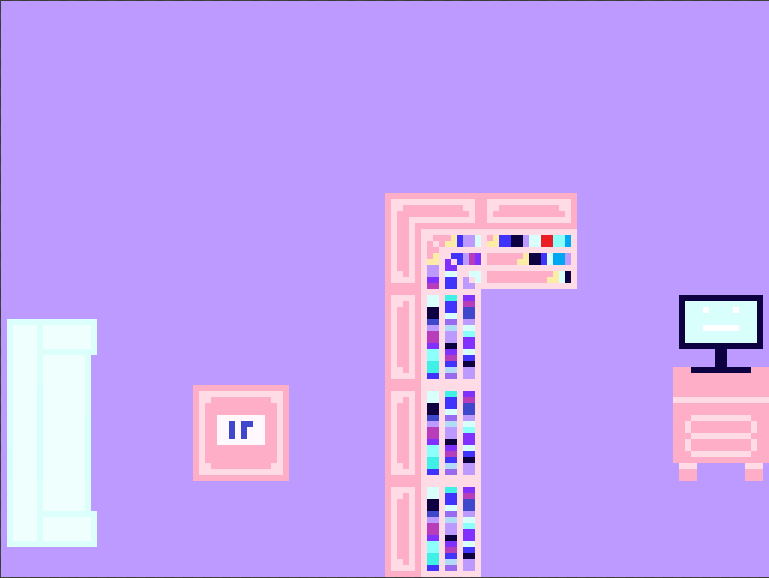
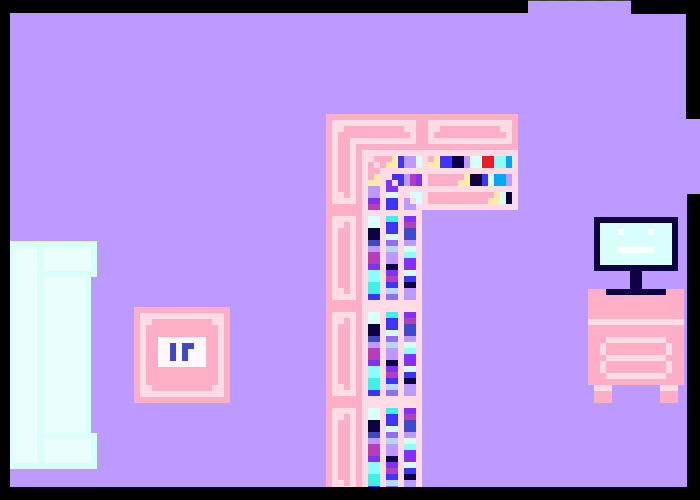
cleaned up some superficial things, changed image sizes to the same size

Changed region(s): [[0.0, 0.0, 1.0, 1.0], [0.18, 0.6, 0.39, 0.84], [0.9, 0.0, 1.0, 0.24]]

diff --git a/eoh_game.html b/eoh_game.html
@@ -1,7 +1,18 @@
-<!doctype html> 
-<meta charset = "utf-8"> 
+<!doctype html>
+<meta charset = "utf-8">
 <title>Hello, world!</title>
-<body style="background-color: black;">
+<head>
+  <style>
+    body {
+      background-color: black;
+      text-align: center;
+      color: white;
+      font-family: courier;
+    }
+  </style>
+</head>
+<body>
+  <h2>Test Header</h2>
 <script src="ga.js"></script>
 <script src="plugins.js"></script>
 <script>
@@ -64,21 +75,23 @@ function logKey(e) {
   }
 }
 
- 
+
 function check_password_correctness() {
   if (password_string === " DELILAH") {
     closeWindow = true;
     console.log("Password correct!");
     computerUnlocked = true;
-  } 
+  }
 }
 
 //Create a new GA instance, and start it.
-var g = ga(790, 720, setup,
+var g = ga(700, 500, setup,
   [
     "images/big-out-living.png",
     "images/kitchen.png",
-    "images/uh.png",
+    "images/step1.png",
+    "images/step2.png",
+    "images/standing.png",
     "images/coffee.png",
     "images/whiteboard2.png",
     "images/bedroom.png",
@@ -92,7 +105,7 @@ var cat, message;
 //A `setup` function that will run only once.
 //Use it for initialization tasks
 function setup() {
-  console.log("setup");
+  console.log("hiiiii");
   forest = g.sprite("images/big-out-living.png");
   kitchen = g.sprite("images/kitchen.png");
   coffee = g.sprite("images/coffee.png")
@@ -100,15 +113,35 @@ function setup() {
   bedroom = g.sprite("images/bedroom.png");
   locked_screen = g.sprite("images/locked_computer.png");
   terminal = g.sprite("images/terminal.png");
-  //Make a sprite 
-  cat = g.sprite("images/uh.png");
-  cat2 = g.sprite("images/uh.png");
-  cat3 = g.sprite("images/uh.png");
+  //Make a sprite
+  var catFrames = [
+    "images/standing.png",
+    "images/step1.png",
+    "images/step2.png"
+  ];
 
+  var walkCycle = [1, 2];
+
+  cat = g.sprite(catFrames);
+  cat2 = g.sprite(catFrames);
+  cat3 = g.sprite(catFrames);
   //Center the cat
   g.stage.putCenter(cat);
   g.stage.putCenter(cat2);
   g.stage.putCenter(cat3);
+
+  // THIS STARTS CAT'S ANIMATION
+  cat.fps = 5;
+  cat2.fps = 5;
+  cat3.fps = 5;
+
+  cat.playSequence(walkCycle);
+  cat2.playSequence(walkCycle);
+  cat3.playSequence(walkCycle);
+
+  cat.loop = false;
+  cat2.loop = false;
+  cat3.loop = false;
 
   g.fourKeyController(cat, 2, 38, 39, 40, 37);
   g.fourKeyController(cat2, 2, 38, 39, 40, 37);
@@ -143,7 +176,7 @@ function setup() {
   // };
 
   //Change the state to `play`
-  g.state = play;  
+  g.state = play;
 }
 
 var passwordDisplayExists = false;
@@ -168,7 +201,7 @@ function play() {
     g.remove(message3);
     message3 = g.text(hints[hint_index], "30px sans-serif", "white", 50, 680);
   }
-  
+
   //Of course you can also move a sprite the good old-fashioned way if
   //really want to!
   //cat.x += cat.vx;
@@ -177,8 +210,14 @@ function play() {
   //If the cat is moving, display its direction
   if (Math.abs(cat.vx) > 0 || Math.abs(cat.vy) > 0) {
     message.content = "The cat is going: " + cat.direction;
+    cat.loop = true;
+    cat2.loop = true;
+    cat3.loop = true;
   } else {
     message.content = "Use the arrow keys to move...";
+    cat.loop = false;
+    cat2.loop = false;
+    cat3.loop = false;
   }
  // console.log(cat.x);
  // console.log(cat.y);
@@ -187,7 +226,7 @@ function play() {
   'contain` constrains the sprite's movement to a rectangular space
   defined by the `localBounds` property of any object.
   (`localBounds` returns an object with `x`, `y`, `width` and `height`
-  properties). 
+  properties).
   that space, `contain` returns a useful a string that will tell you which
   side the sprite hit: "left", "right". "top" or "bottom".
   */
@@ -198,36 +237,36 @@ function play() {
   kitchen_contains = g.contain(cat2, g.stage.localBounds);
   bedroom_contains = g.contain(cat3, g.stage.localBounds);
   var catHitsEdges = living_room_contains || kitchen_contains || bedroom_contains;
-  
+
   // if (catHitsEdges) {
   //   console.log(g.contain(cat, g.stage.localBounds));
   //   console.log(g.contain(cat2, g.stage.localBounds));
   //   console.log(g.contain(cat3, g.stage.localBounds));
   // }
-  if (gameSceneKitchen.visible && cat2.x > 500 && cat2.y < 150 && cat2.x < 700) {
+  if (gameSceneKitchen.visible && cat2.x > 470 && cat2.y < 250 && cat2.x < 570) {
     gameSceneCoffee.visible = true;
   }
 
-  if (gameSceneBedroom.visible && cat3.x > 400 && cat3.x < 500 && cat3.y < 130) {
+  if (gameSceneBedroom.visible && cat3.x > 260 && cat3.x < 460 && cat3.y < 160) {
     gameSceneWhiteboard.visible = true;
     if (hint_index === 1) {
       hint_index++;
     }
   }
 
-  if (gameScene.visible && cat.y > 290 && cat.y < 420 && cat.x > 645) {
+  if (gameScene.visible && cat.y > 200 && cat.y < 410 && cat.x > 530) {
     if (!computerUnlocked) {
       gameSceneLockedScreen.visible = true;
       if (passwordDisplayExists) {
         g.remove(message4);
       }
-      message4 = g.text(password_string, "30px sans-serif", "black", 190, 260);
+      message4 = g.text(password_string, "30px sans-serif", "black", 140, 235);
       passwordDisplayExists = true;
     } else {
       gameSceneTerminal.visible = true; // TODO change this to real computer screen
       console.log("??");
     }
-    
+
     // if (message4) {
     //   g.remove(message4);
     // }
@@ -249,7 +288,7 @@ function play() {
 
   //Display the edge of canvas that the cat hit
   if (catHitsEdges) {
-    message.content 
+    message.content
       = "The cat hit the " + catHitsEdges + " of the canvas";
       // living_room_contains = g.contain(cat, g.stage.localBounds);
       // kitchen_contains = g.contain(cat2, g.stage.localBounds);
@@ -300,14 +339,14 @@ function play() {
       //   g.remove(message5);
       // }
    //   g.remove(message5);
-      
+
     }
 
     gameSceneCoffee.visible = false;
     gameSceneWhiteboard.visible = false;
     gameSceneLockedScreen.visible = false;
     gameSceneTerminal.visible = false;
-    
+
     closeWindow = false;
     cat.y += 100;
     cat2.y += 100;
@@ -316,5 +355,6 @@ function play() {
 }
 
 </script>
+<!--Add hints or description to bottom-->
+<p>Hints: bleb</p>
 </body>
-
